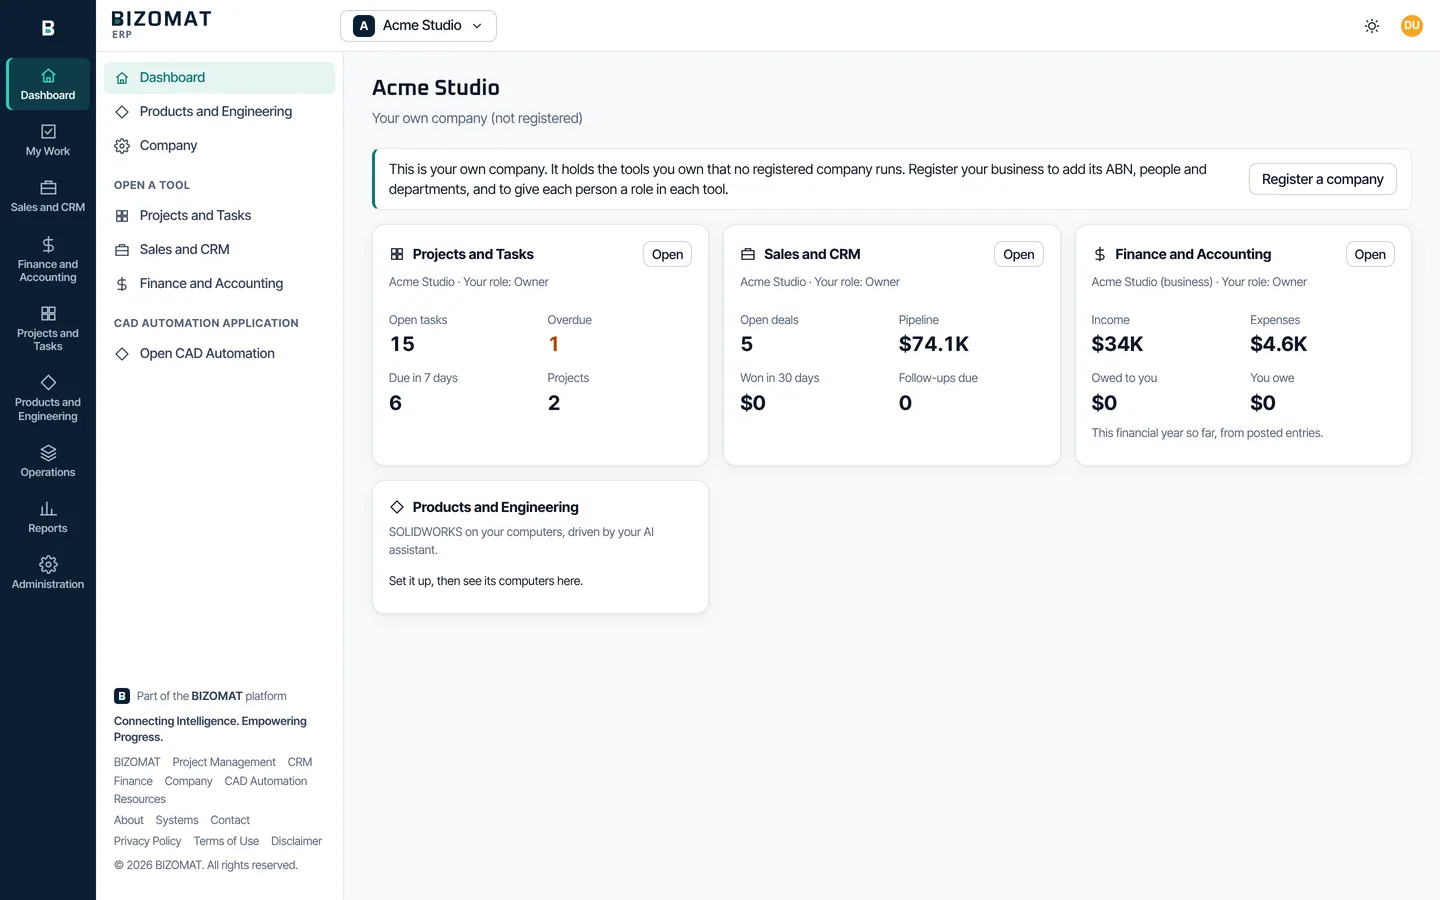
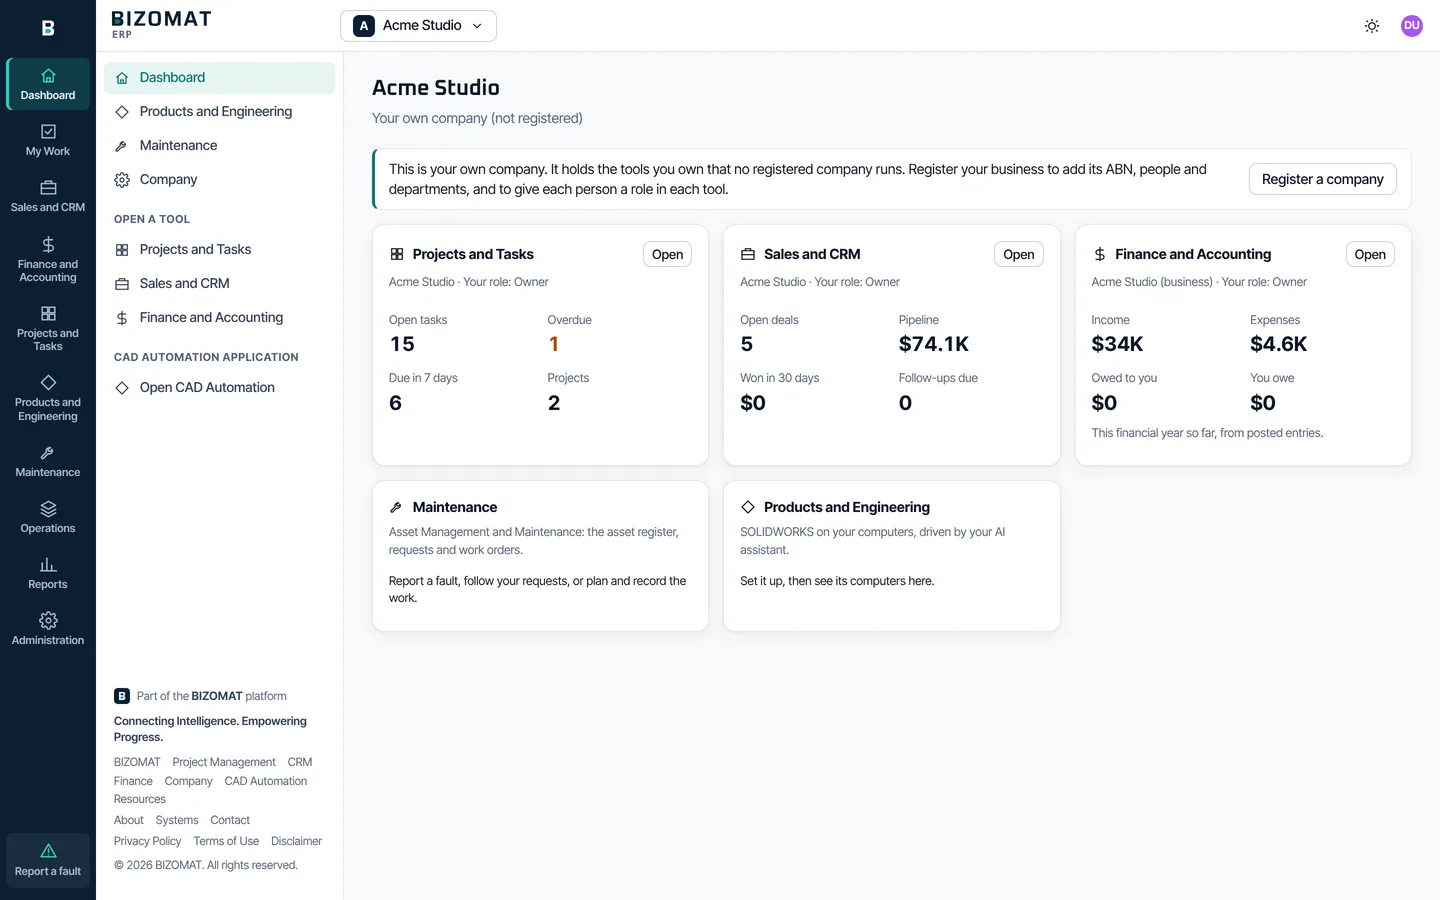
Systems pages: Maintenance Stage 1 is live, with its guide and real screens
The ERP page, its guide, the catalogue and the Manufacturing and Operations page
now label Maintenance's first stage Live (asset register and hierarchy, requests
with approval, work orders, technicians, labour timer, photos, documents, history)
and keep M2 to M4 Planned. The ERP guide gains "Look after assets in Maintenance",
step by step, and two questions. The capability data marks the ten M1 rows live
(74 live, 10 connected, 2 in development, 173 planned).

Screens: four of Maintenance, and the eight earlier ERP screens re-captured with the
new rail, from a local instance with a fictional company and example data. The
smoke test also checks that the maintenance API refuses calls without a session.

Claude-Session: https://claude.ai/code/session_01UdVmoNV4sEtcj8dyKHhasR

diff --git a/src/data/erp-capabilities.ts b/src/data/erp-capabilities.ts
@@ -26,8 +26,8 @@
 //     (/company/api/id/cad-status) is built but CAD Automation's reporter is not merged, and Sign in with BIZOMAT for
 //     CAD Automation is built but not merged (docs/BIZOMAT-PROJECT-STATUS.md, 14 Nov 2026): both in-development.
 //   Asset management and maintenance (CMMS): owner's brief of 14 Nov 2026 (MEX used as a functional reference only).
-//     Its Stage 1 is being built (apps/work/src/worker/maintenance, migration 0018_maintenance.sql) and is
-//     in-development here until its tests pass; the rest is planned.
+//     Its Stage 1 is live (apps/work/src/worker/maintenance, migration 0018_maintenance.sql; acceptance tests A to D and J
+//     in apps/work/test/maintenance.test.ts and test-node/maintenance.test.ts); the rest is planned.
 //   Everything else (sales orders, procurement beyond Finance's documents, inventory, manufacturing, quality, supply
 //     chain, service, human capital): docs/erp/architecture/02 to 10. Nothing of it is built, so it is planned.
 // Rule: if a feature cannot be found in the code or the docs above, it is planned. Notes are public text: plain
@@ -285,19 +285,19 @@ export const ERP_DOMAINS: readonly ErpDomain[] = [
     id: 'assets',
     name: 'Asset management and maintenance',
     summary: 'A maintenance management system (CMMS): assets, requests, work orders, technicians, preventive plans, parts and reliability.',
-    servedBy: 'BIZOMAT ERP Asset Management and Maintenance (Stage 1 being built); depreciation in BIZOMAT Finance (planned)',
+    servedBy: 'BIZOMAT ERP Asset Management and Maintenance (Stage 1 live); depreciation in BIZOMAT Finance (planned)',
     features: [
-      // CMMS Stage 1: being built (owner, 14 Nov 2026). In development until its tests pass.
-      cap('Asset register', 'in-development'),
-      cap('Asset hierarchy', 'in-development', 'Assets within assets and locations.'),
-      cap('Equipment master and asset details', 'in-development'),
-      cap('Maintenance requests with approval', 'in-development', 'Approval by a supervisor or administrator when the company requires it.'),
-      cap('Maintenance work orders', 'in-development', 'Standard work orders with tasks, required parts as text lines, labour and notes. Recurring work orders from plans are planned.'),
-      cap('Corrective maintenance', 'in-development', 'A standard work order of the corrective job type.'),
-      cap('Breakdown maintenance', 'in-development', 'A standard work order of the breakdown job type.'),
-      cap('Technician assignment', 'in-development', 'Maintenance roles per company: administrator, supervisor, technician and requester.'),
-      cap('Labour timer', 'in-development'),
-      cap('Photos and documents', 'in-development', 'On assets and work orders.'),
+      // CMMS Stage 1: live (owner, 14 Nov 2026), tested by apps/work/test/maintenance.test.ts.
+      cap('Asset register', 'live'),
+      cap('Asset hierarchy', 'live', 'Assets within assets and locations.'),
+      cap('Equipment master and asset details', 'live'),
+      cap('Maintenance requests with approval', 'live', 'Approval by a supervisor or administrator when the company requires it.'),
+      cap('Maintenance work orders', 'live', 'Standard work orders with tasks, required parts as text lines, labour and notes. Recurring work orders from plans are planned.'),
+      cap('Corrective maintenance', 'live', 'A standard work order of the corrective job type.'),
+      cap('Breakdown maintenance', 'live', 'A standard work order of the breakdown job type.'),
+      cap('Technician assignment', 'live', 'Maintenance roles per company: administrator, supervisor, technician and requester.'),
+      cap('Labour timer', 'live'),
+      cap('Photos and documents', 'live', 'On assets, requests and work orders.'),
       // CMMS Stage 2.
       cap('Preventive maintenance plans', 'planned', 'Triggered by time, usage or condition.'),
       cap('Maintenance planning and calendar', 'planned'),

diff --git a/src/data/screenshots.ts b/src/data/screenshots.ts
@@ -14,9 +14,13 @@ const ALL: readonly Screenshot[] = [
   { src: '/proof-of-work/product/erp-finance.webp', product: 'erp', title: 'BIZOMAT ERP: Finance and Accounting', caption: 'Finance opens inside the ERP, in the company\'s business workspace.' },
   { src: '/proof-of-work/product/erp-projects.webp', product: 'erp', title: 'BIZOMAT ERP: Projects and Tasks', caption: 'A project board inside the ERP: groups, owners, statuses and dates.' },
   { src: '/proof-of-work/product/erp-engineering.webp', product: 'erp', title: 'BIZOMAT ERP: Products and Engineering', caption: 'CAD Automation\'s set-up steps and the computers this person may see.' },
-  { src: '/proof-of-work/product/erp-operations.webp', product: 'erp', title: 'BIZOMAT ERP: Operations (planned)', caption: 'The planned operations modules, each labelled Planned. None of them is built yet.' },
+  { src: '/proof-of-work/product/erp-operations.webp', product: 'erp', title: 'BIZOMAT ERP: Operations', caption: 'The operations modules: Asset Management and Maintenance partly live, with what works today, and the others labelled Planned.' },
   { src: '/proof-of-work/product/erp-reports.webp', product: 'erp', title: 'BIZOMAT ERP: Reports', caption: 'Every report of the company\'s tools in one place; each opens in its module.' },
   { src: '/proof-of-work/product/erp-administration.webp', product: 'erp', title: 'BIZOMAT ERP: Administration', caption: 'The company, each tool\'s team and settings, and your own profile.' },
+  { src: '/proof-of-work/product/erp-maintenance.webp', product: 'erp', title: 'BIZOMAT ERP: Maintenance', caption: 'The maintenance overview: requests awaiting approval, open and overdue work orders, your work and the asset register.' },
+  { src: '/proof-of-work/product/erp-maintenance-assets.webp', product: 'erp', title: 'BIZOMAT ERP: an asset', caption: 'An asset in its hierarchy, with its details, outstanding work, the assets under it, files and history.' },
+  { src: '/proof-of-work/product/erp-maintenance-requests.webp', product: 'erp', title: 'BIZOMAT ERP: maintenance requests', caption: 'Requests by status, with priority and asset, ready for a supervisor to approve, decline or ask for more.' },
+  { src: '/proof-of-work/product/erp-maintenance-work-order.webp', product: 'erp', title: 'BIZOMAT ERP: a work order', caption: 'A work order with the labour timer, Complete and Add a photo, safety requirements, instructions and tasks.' },
   { src: '/proof-of-work/product/cad-dashboard.webp', product: 'cad', title: 'CAD Automation: Home', caption: 'The signed-in home: connection status, set-up steps and recent activity.' },
   { src: '/proof-of-work/product/cad-assistant.webp', product: 'cad', title: 'CAD Automation: CAD Assistant', caption: 'The connector address for AI apps, connected apps and example requests.' },
   { src: '/proof-of-work/product/cad-solidworks.webp', product: 'cad', title: 'CAD Automation: SOLIDWORKS', caption: 'The installer, paired computers and how the add-in connects.' },

diff --git a/src/config/systems.ts b/src/config/systems.ts
@@ -44,7 +44,7 @@ export const SYSTEMS: readonly SystemInfo[] = [
     formerly: 'BIZOMAT System',
     line: 'One workspace for your company: sales, finance, projects, engineering and administration, by company.',
     status: 'partial',
-    statusNote: 'Working today: the workspace, the dashboard by company, Sales and CRM, Finance and Accounting, Projects and Tasks, Products and Engineering (CAD Automation), Reports and Administration. Maintenance (assets, requests and work orders) is in development. Procurement, inventory, manufacturing, quality and supply chain are planned.',
+    statusNote: 'Working today: the workspace, the dashboard by company, Sales and CRM, Finance and Accounting, Projects and Tasks, Products and Engineering (CAD Automation), Maintenance (assets, requests and work orders), Reports and Administration. Procurement, inventory, manufacturing, quality and supply chain are planned.',
     url: '/systems/erp/',
     guide: '/systems/erp/guide/',
     access: { href: erp, label: 'Open BIZOMAT ERP', note: 'Sign in with your BIZOMAT account. Every module opens inside the ERP.' },
@@ -109,7 +109,7 @@ export const SYSTEMS: readonly SystemInfo[] = [
     short: 'Manufacturing and Operations',
     line: 'Procurement, inventory, manufacturing, quality, maintenance and supply chain, as ERP modules.',
     status: 'planned',
-    statusNote: 'Planned, not built, except the first stage of Maintenance (assets, requests and work orders), which is in development inside BIZOMAT ERP. The design can be explored in the BIZOMAT ERP design preview, which uses demonstration data only.',
+    statusNote: 'Planned, not built, except the first stage of Maintenance (assets, requests and work orders), which works today inside BIZOMAT ERP. The design can be explored in the BIZOMAT ERP design preview, which uses demonstration data only.',
     url: '/systems/manufacturing/',
     module: 'Operations',
   },
